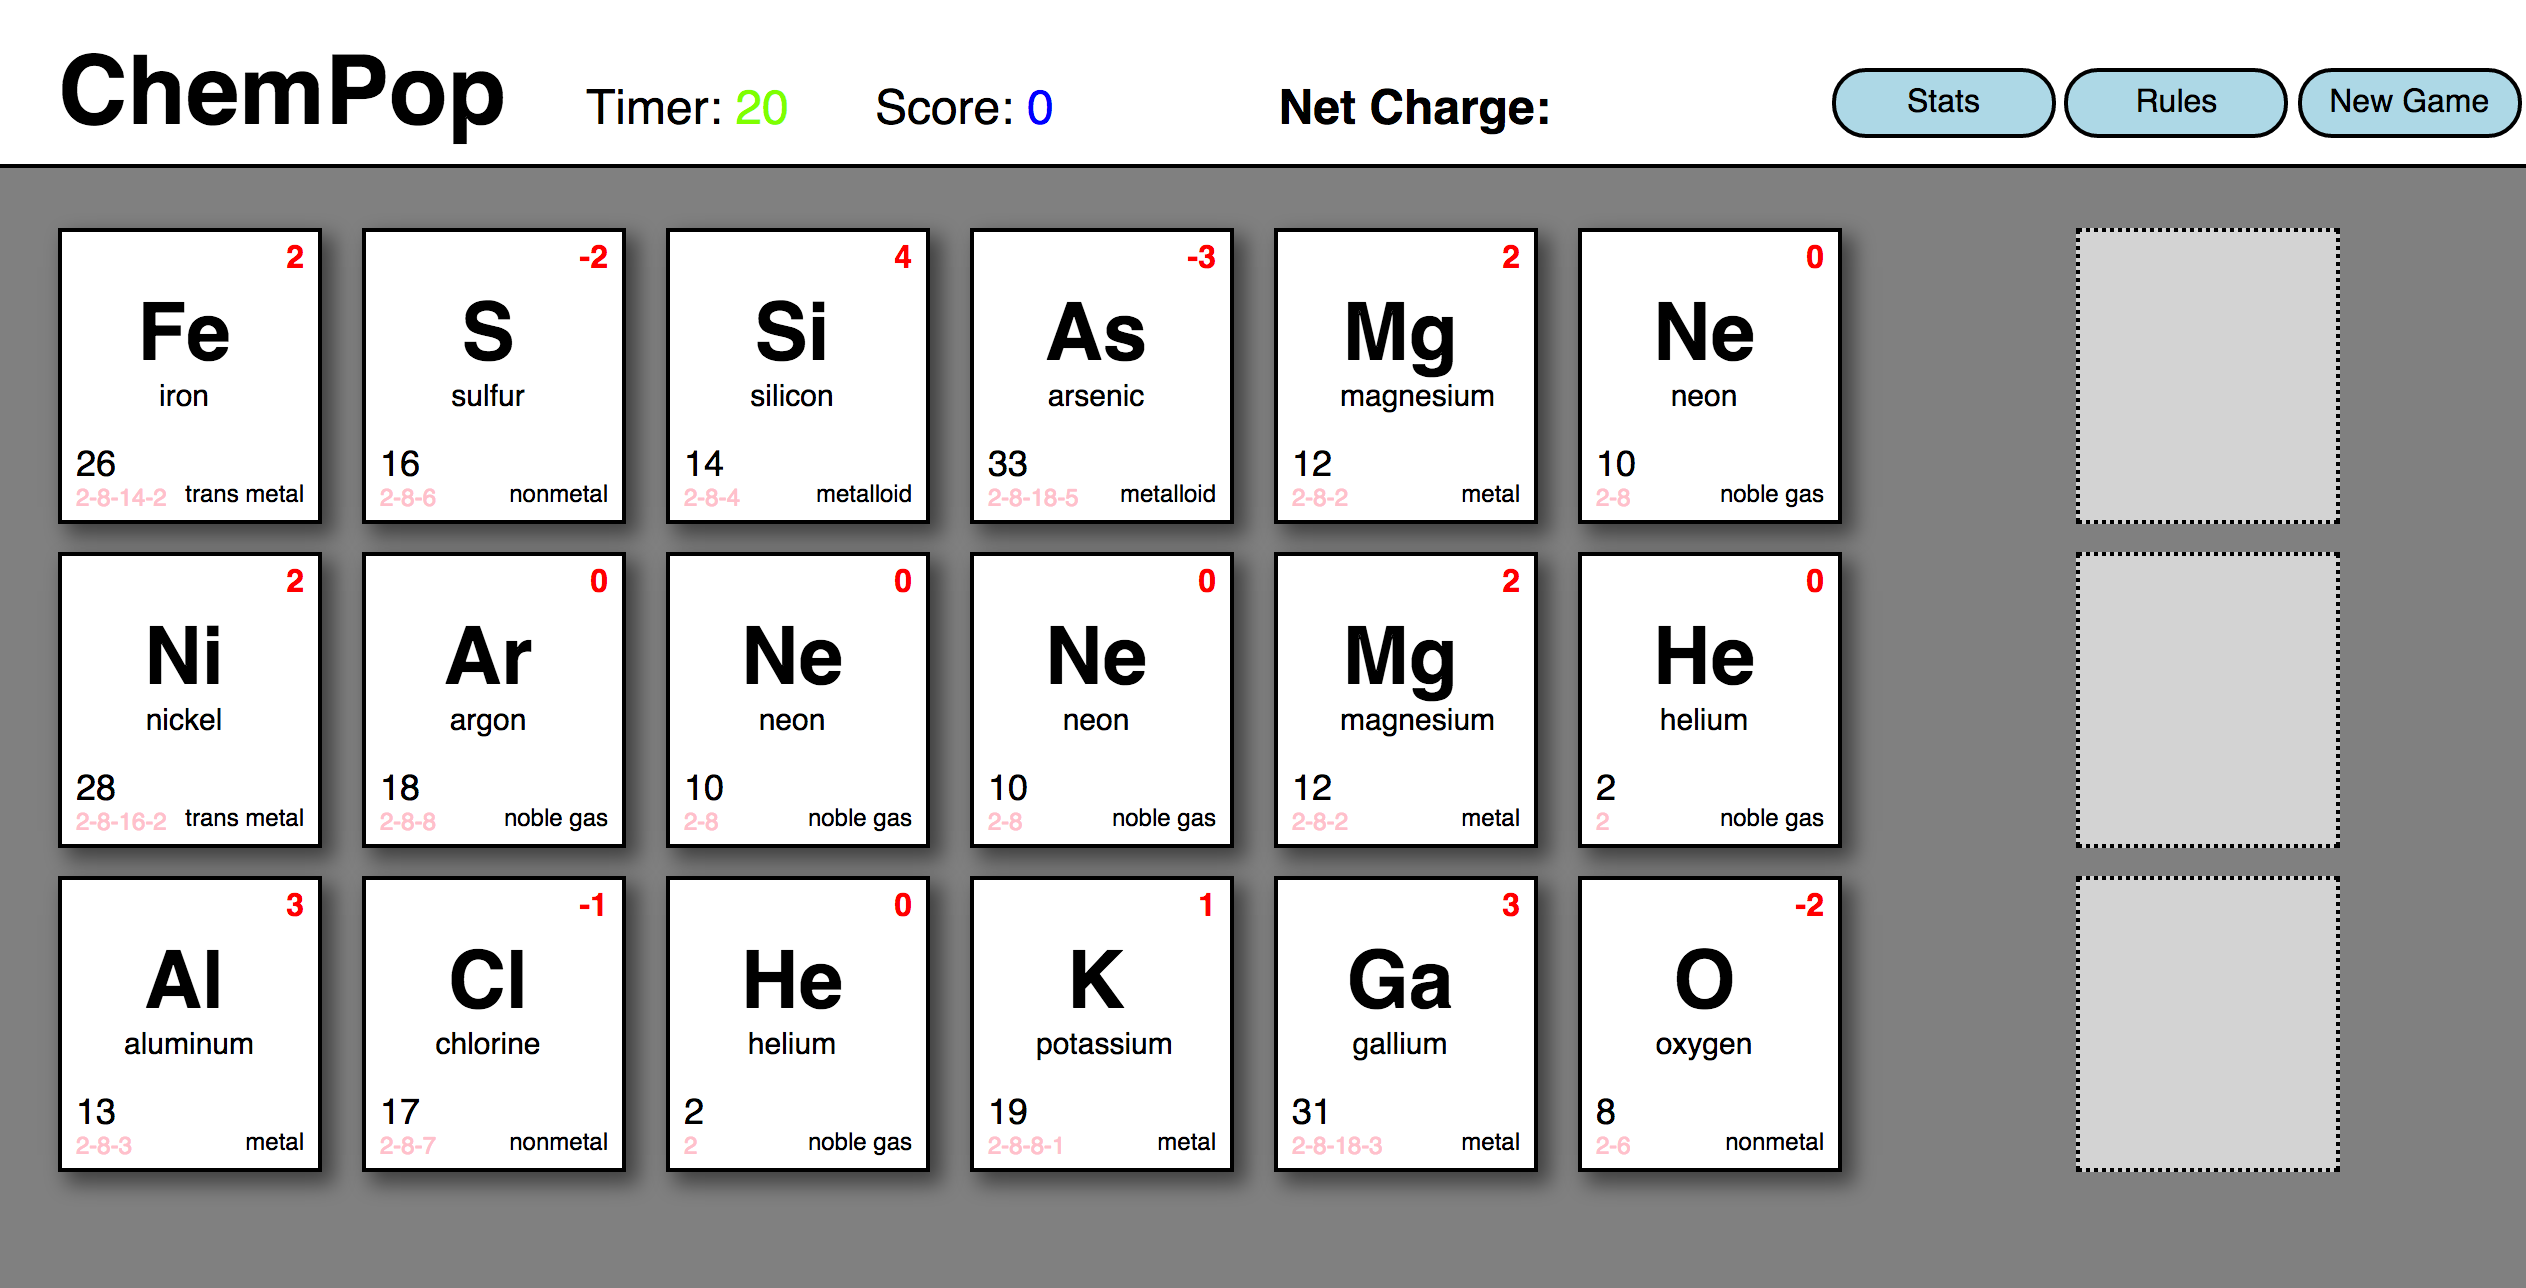
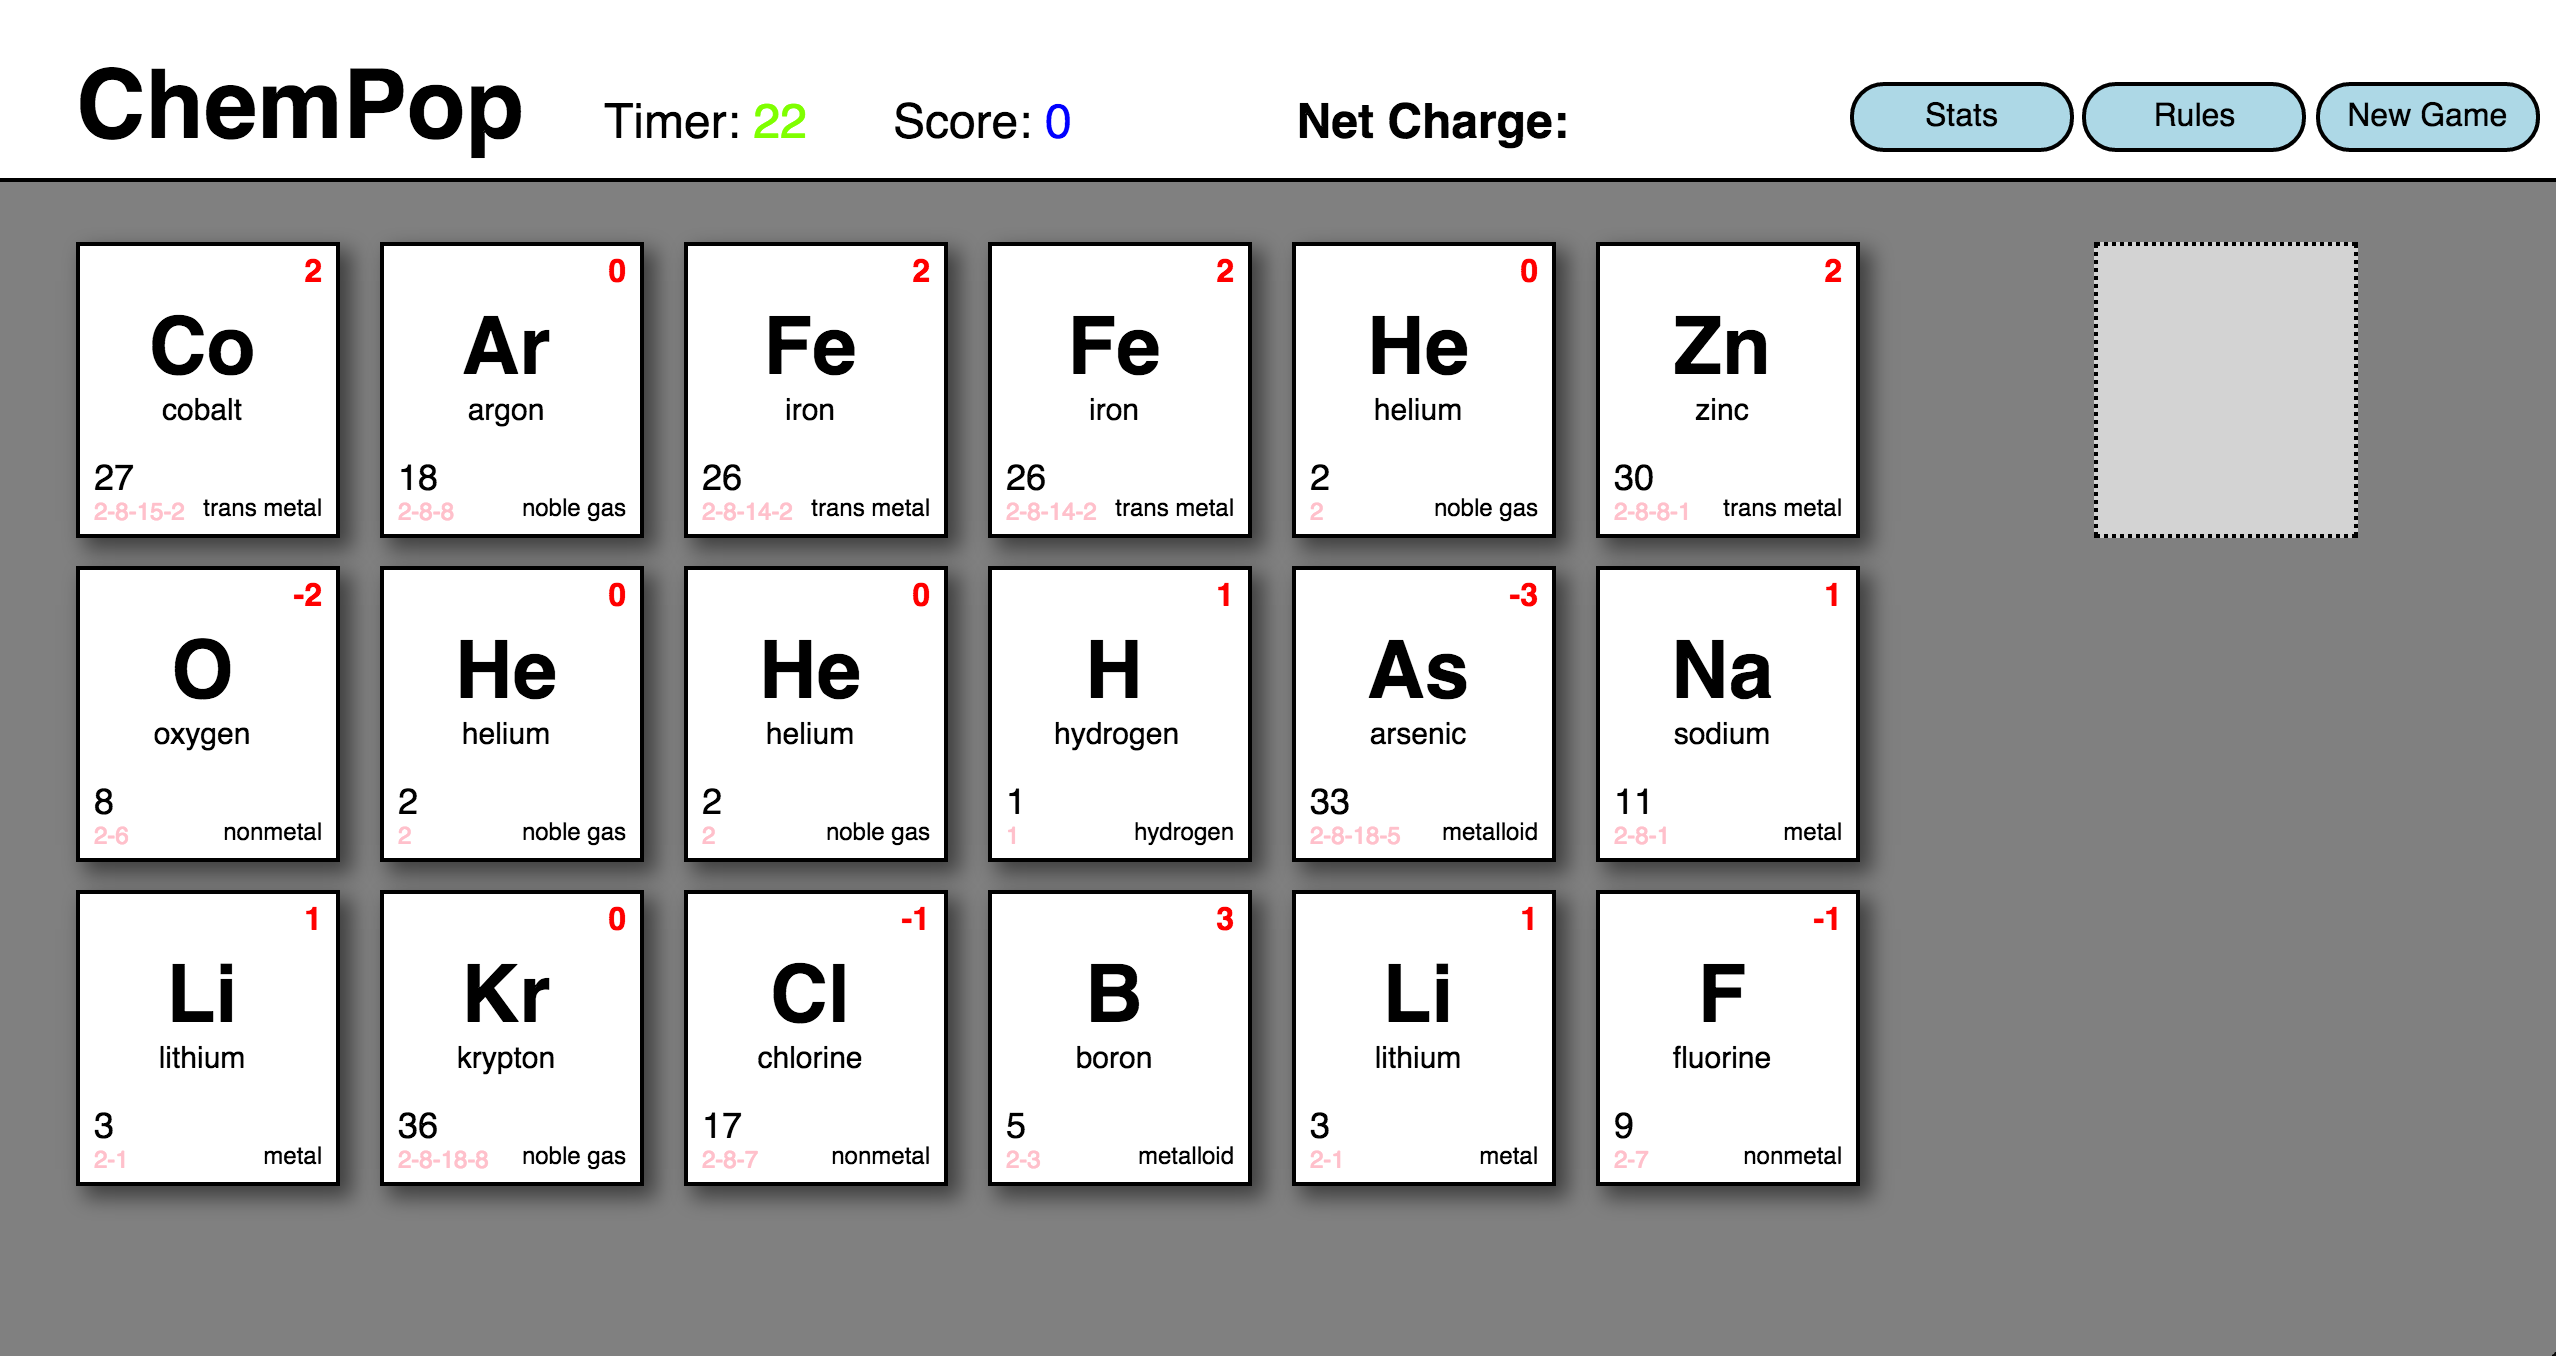
changed pic

Changed region(s): [[0.0, 0.0311, 1.0, 0.9317], [0.5249, 0.2174, 0.5867, 0.3416], [0.1853, 0.2174, 0.2162, 0.3106]]

diff --git a/readme.md b/readme.md
@@ -1,13 +1,17 @@
 
 [ChemPop](https://secure-shore-1088.herokuapp.com/)
 =================
-ChemPop is a one-page app made using JavaScript, HTML5, CSS and Sinatra. A player is assigned a set of random cards, consisting of elements. The player must use the charges of the ions these elements will form to create ionic compounds. This can be accomplished by dragging cards to the three gray squares on the right side of the screen.
+ChemPop is a one-page app. A player is assigned a set of random cards, consisting of elements. The player must use the charges of the ions these elements will form to create ionic compounds. This can be accomplished by dragging cards to the gray square on the right side of the screen.
+
+
+<img src="/public/images/chempop.png" width="800px">
+
 
 ###Technologies Used
 <ul>
 <li>JavaScript</li>
-<li>HTML</li>
-<li>CSS</li>
+<li>HTML</li> 
+<li>CSS</li> 
 <li>Ruby</li>
 <li>Sinatra</li>
 <li>SimpleStorage</li>
